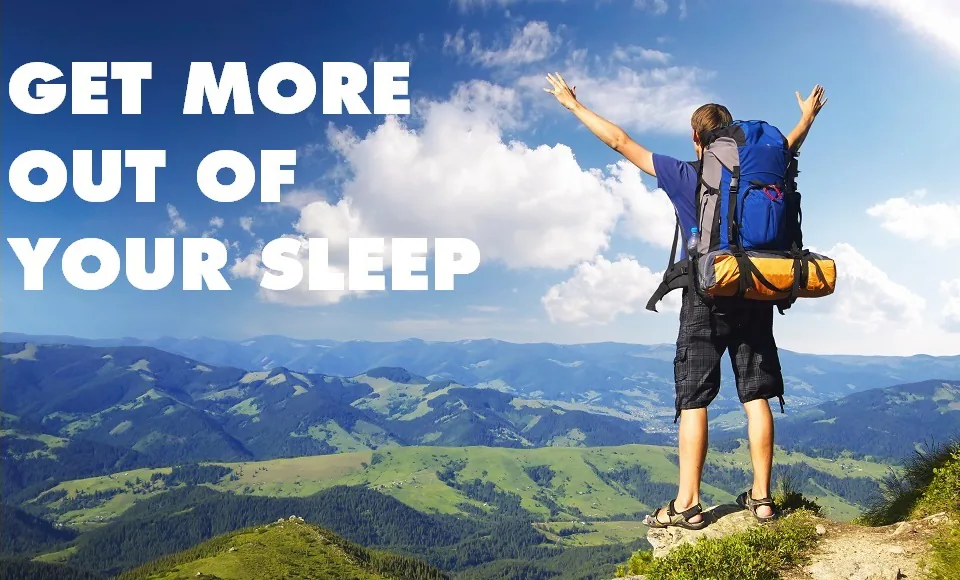
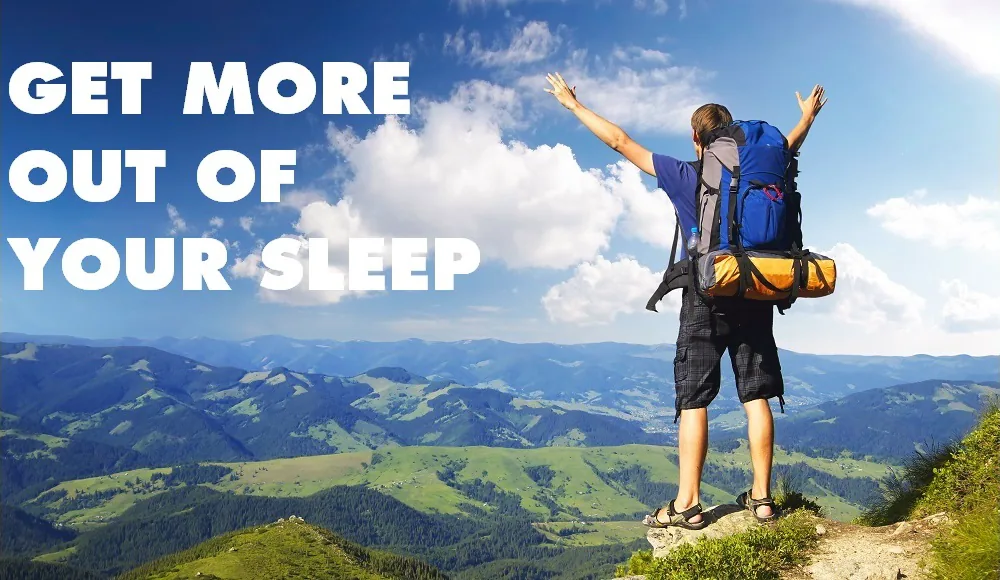
Use original hero photos; build production into cpapfit.ca
- Hero shows the three original photos (white bars trimmed) with their
  built-in slogan; cover panels removed, frame is 2:1 aligned to top.
- Production build writes to the upload-only ../../cpapfit.ca folder,
  marks it NOT-READY-TO-UPLOAD while pages are missing; zip refuses then.
- Docs updated for the repo's new location in the planning folder.

diff --git a/src/pages/index.html b/src/pages/index.html
@@ -26,16 +26,13 @@ nav: home
       <div class="lg:col-span-6">
         <div class="hero-frame relative w-full overflow-hidden rounded-card bg-surface-container-high shadow-card" aria-roledescription="carousel" aria-label="Get more out of your sleep">
           <div class="hero-slide is-active">
-            <img src="img/hero-1.webp" alt="Grandfather riding a bicycle with his grandchildren through a field of daisies" width="960" height="580" class="h-full w-full object-cover" fetchpriority="high">
-            <p class="hero-cover hero-cover-1">Get more out of your sleep</p>
+            <img src="img/hero-1.webp" alt="Get more out of your sleep: grandfather riding a bicycle with his grandchildren through a field of daisies" width="960" height="580" class="h-full w-full object-cover object-top" fetchpriority="high">
           </div>
           <div class="hero-slide" aria-hidden="true">
-            <img src="img/hero-2.webp" alt="Hiker with a backpack celebrating on a mountain top" width="960" height="580" class="h-full w-full object-cover" loading="lazy">
-            <p class="hero-cover hero-cover-2">Get more out of your sleep</p>
+            <img src="img/hero-2.webp" alt="Get more out of your sleep: hiker with a backpack celebrating on a mountain top" width="1000" height="580" class="h-full w-full object-cover object-top" loading="lazy">
           </div>
           <div class="hero-slide" aria-hidden="true">
-            <img src="img/hero-3.webp" alt="Two colleagues giving each other a high five at the office" width="960" height="580" class="h-full w-full object-cover" loading="lazy">
-            <p class="hero-cover hero-cover-3">Get more out of your sleep</p>
+            <img src="img/hero-3.webp" alt="Get more out of your sleep: two colleagues giving each other a high five at the office" width="1143" height="580" class="h-full w-full object-cover object-top" loading="lazy">
           </div>
         </div>
       </div>

diff --git a/src/css/input.css b/src/css/input.css
@@ -46,15 +46,10 @@
   .field { @apply block w-full min-h-[48px] rounded-lg border border-[#cfd8dc] bg-white px-4 py-3 text-body-md text-on-surface;
            @apply focus:border-primary-container focus:outline-none focus:ring-[3px] focus:ring-primary-container/15; }
 
-  /* Hero slideshow: three photos cross-fade; a panel covers the slogan baked into each photo */
-  .hero-frame { container-type: inline-size; aspect-ratio: 960 / 580; }
+  /* Hero slideshow: the three original photos cross-fade (slogan is part of each photo) */
+  .hero-frame { aspect-ratio: 2 / 1; }
   .hero-slide { @apply absolute inset-0 opacity-0 transition-opacity duration-1000; }
   .hero-slide.is-active { @apply opacity-100; }
-  .hero-cover { @apply absolute flex items-center bg-primary-container text-white font-heading font-bold leading-tight;
-                font-size: 4.4cqw; padding: 0 3.2cqw; }
-  .hero-cover-1 { left: 0; top: 0; width: 50%; height: 46%; border-bottom-right-radius: 14px; }
-  .hero-cover-2 { left: 0; top: 7%; width: 52%; height: 46%; border-radius: 0 14px 14px 0; }
-  .hero-cover-3 { right: 0; top: 2%; width: 30%; height: 43%; border-radius: 14px 0 0 14px; font-size: 3.6cqw; }
 
   /* FAQ accordion (native <details>) */
   .faq-item summary { @apply flex cursor-pointer list-none items-center justify-between gap-4 p-space-md font-heading text-title-md text-on-surface; }

diff --git a/CLAUDE.md b/CLAUDE.md
@@ -1,6 +1,6 @@
 # cpapfit.ca: project rules
 
-Redesign of the CPAP Fit clinic website. Source in `src/`, built into `site/` by `npm run build`.
+Redesign of the CPAP Fit clinic website. Source in `src/` (this repo lives at `cpapfit website planning/source/`). `npm run build` writes the production site into `../../cpapfit.ca/`, which is the **upload-only folder**: only files that go to the hosting server, nothing else. `PREVIEW=1 npm run build` writes the GitHub Pages preview into `site/`.
 
 ## Page-by-page workflow (mandatory)
 1. Build **one page at a time**, in this order: Home (`index`) → Rental Trials (`freetrial`) → About OSA (`osa`) → Already Using CPAP? (`already_using`) → FAQ (`faq`) → Contact (`contact`) → Privacy (`privacy`) → 404 (`404`).
@@ -9,8 +9,8 @@ Redesign of the CPAP Fit clinic website. Source in `src/`, built into `site/` by
 4. Shared header/footer/layout changes are allowed at any time but must be noted in `REVIEW.md`, since they affect pages already approved.
 
 ## Content rules
-- Source of truth for copy: the original site text in `../cpapfit website planning/stitch-prompts.md` plus agreed changes: **rental trials** (not loaner/free trials), **no office hours anywhere**, **embedded Google Maps** (not map images), **few icons** (functional only: menu, accordion, media), Chinese version later.
-- Stitch design: `../cpapfit website planning/stitch_cpap_fit_website_refresh/<page>/screen.png` (layout reference only; its code is not reused).
+- Source of truth for copy: the original site text in `../stitch-prompts.md` plus agreed changes: **rental trials** (not loaner/free trials), **no office hours anywhere**, **embedded Google Maps** (not map images), **few icons** (functional only: menu, accordion, media), Chinese version later.
+- Stitch design: `../stitch_cpap_fit_website_refresh/<page>/screen.png` (layout reference only; its code is not reused).
 - Remove Stitch's unverifiable claims (percentages, patient counts, star ratings, "verified", "accredited", "hospital-grade", "whisper-quiet", eligibility badges, invented pages/links).
 - Useful extras that are not original copy stay, marked `data-review="why it needs approval"` and listed in `REVIEW.md`. Open any page with `#review` to see them outlined.
 
@@ -19,7 +19,8 @@ Redesign of the CPAP Fit clinic website. Source in `src/`, built into `site/` by
 - Relative links only (the preview runs under a GitHub Pages sub-path).
 - Images: WebP in `src/img/`, with `width`/`height` and meaningful `alt`. Non-hero images `loading="lazy"`.
 - No external CDNs except Google Maps embeds, YouTube (`youtube-nocookie.com`) and, later, the form CAPTCHA.
-- Preview builds (`PREVIEW=1`) are noindex and fill unbuilt pages with placeholders; production builds fail if any page is missing.
+- Preview builds (`PREVIEW=1`) are noindex and fill unbuilt pages with placeholders; production builds skip missing pages and write `NOT-READY-TO-UPLOAD.txt` into `cpapfit.ca/` (`npm run zip` refuses while it exists).
+- Hero: the three original licensed photos (white bars trimmed), slogan "Get more out of your sleep" is baked into each photo; no cover panel. The Chinese version reuses the same images.
 
 ## Never commit (public repo)
 The planning folder, the server backup, `server-audit.md`, `contact-config.php` or any secret.

diff --git a/REVIEW.md b/REVIEW.md
@@ -36,4 +36,4 @@ Changes to shared parts after a page is approved are listed here with the date.
 | Products | All six products and their type labels | List dates from 2016–2022 (e.g. AirSense 10 has a successor). Confirm current models. |
 | Brands we carry | DeVilbiss, HDM, Philips logos | Confirm the clinic still carries these brands; official high-resolution logos should replace the small images. |
 
-What changed from the old Home page, for context: "Loaner Trials" is now "Rental Trials"; office hours removed; map images replaced by live Google Maps; the hero slogan is now real text over the photos; Stitch's invented claims ("Zero-obligation", "Whisper-quiet", "ADP eligible", "hospital-grade") were left out.
+What changed from the old Home page, for context: "Loaner Trials" is now "Rental Trials"; office hours removed; map images replaced by live Google Maps; the hero uses the original three photos (white side bars trimmed) with their built-in slogan "Get more out of your sleep"; the Chinese version will use the same photos; Stitch's invented claims ("Zero-obligation", "Whisper-quiet", "ADP eligible", "hospital-grade") were left out.

diff --git a/README.md b/README.md
@@ -6,9 +6,9 @@ Source for the redesigned [cpapfit.ca](https://cpapfit.ca) website of CPAP Fit (
 
 ```sh
 npm install
-npm run build          # production build into site/ (fails until every page exists)
+npm run build          # production build into ../../cpapfit.ca/ (upload-only folder; adds NOT-READY-TO-UPLOAD.txt until every page exists)
 PREVIEW=1 npm run build # preview build: noindex, placeholders for unbuilt pages
-npm run zip            # production build zipped for upload
+npm run zip            # production build zipped to ../cpapfit-upload-DATE.zip (refuses while pages are missing)
 ```
 
 - `src/pages/`: one file per page (front-matter comment with title, description, nav).
@@ -22,4 +22,4 @@ Every push to `main` publishes the preview to GitHub Pages. Add `#review` to any
 
 ## Production
 
-The live site is hosted on Webnames (Plesk). After all pages are approved, run the production build and upload the contents of `site/` to `httpdocs`.
+The live site is hosted on Webnames (Plesk). After all pages are approved, run the production build and upload the contents of `cpapfit.ca/` to `httpdocs`.
